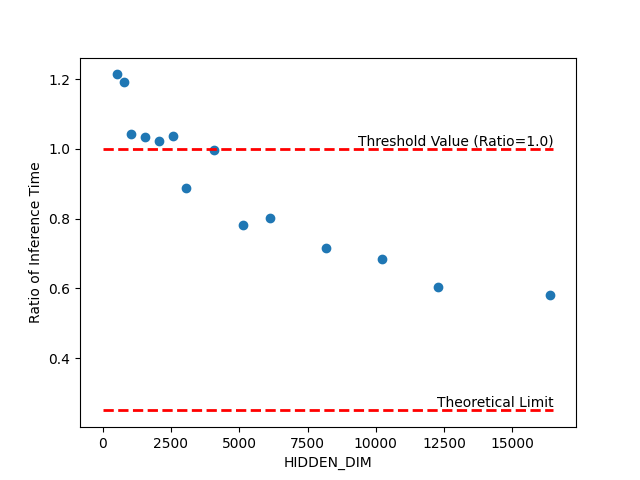
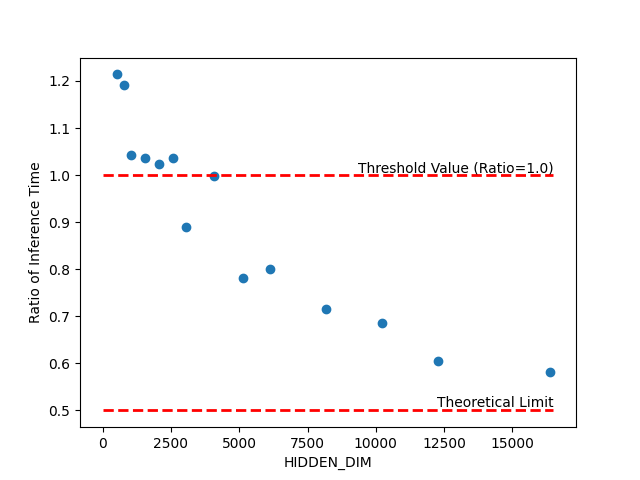
更新实验结果

diff --git a/expert_slicing/plot.py b/expert_slicing/plot.py
@@ -1,7 +1,7 @@
 import matplotlib.pyplot as plt
 
-B = 1
-SQ = 1
+B = 8
+SQ = 1024
 
 def plot(w, e, tp):
     s = f"_W{w}_E{e}_TP{tp}"
@@ -31,7 +31,7 @@ def plot(w, e, tp):
     plt.scatter(x, y)
     plt.plot([0, 16500], [1, 1], color='red', linewidth=2.0, linestyle='--')
     plt.text(16500, 1, 'Threshold Value (Ratio=1.0)', ha='right', va='bottom', fontsize=10)
-    t = 1.0 / w
+    t = 1.0 / tp
     plt.plot([0, 16500], [t, t], color='red', linewidth=2.0, linestyle='--')
     plt.text(16500, t, 'Theoretical Limit', ha='right', va='bottom', fontsize=10)
     plt.xlabel("HIDDEN_DIM")
@@ -50,7 +50,7 @@ def plot(w, e, tp):
     plt.plot(x, y)
     plt.plot([0, 16500], [1, 1], color='red', linewidth=2.0, linestyle='--')
     plt.text(16500, 1, 'Threshold Value (Ratio=1.0)', ha='right', va='bottom', fontsize=10)
-    t = 1.0 / w
+    t = 1.0 /tp
     plt.plot([0, 16500], [t, t], color='red', linewidth=2.0, linestyle='--')
     plt.text(16500, t, 'Theoretical Limit', ha='right', va='bottom', fontsize=10)
     plt.xlabel("HIDDEN_DIM")
